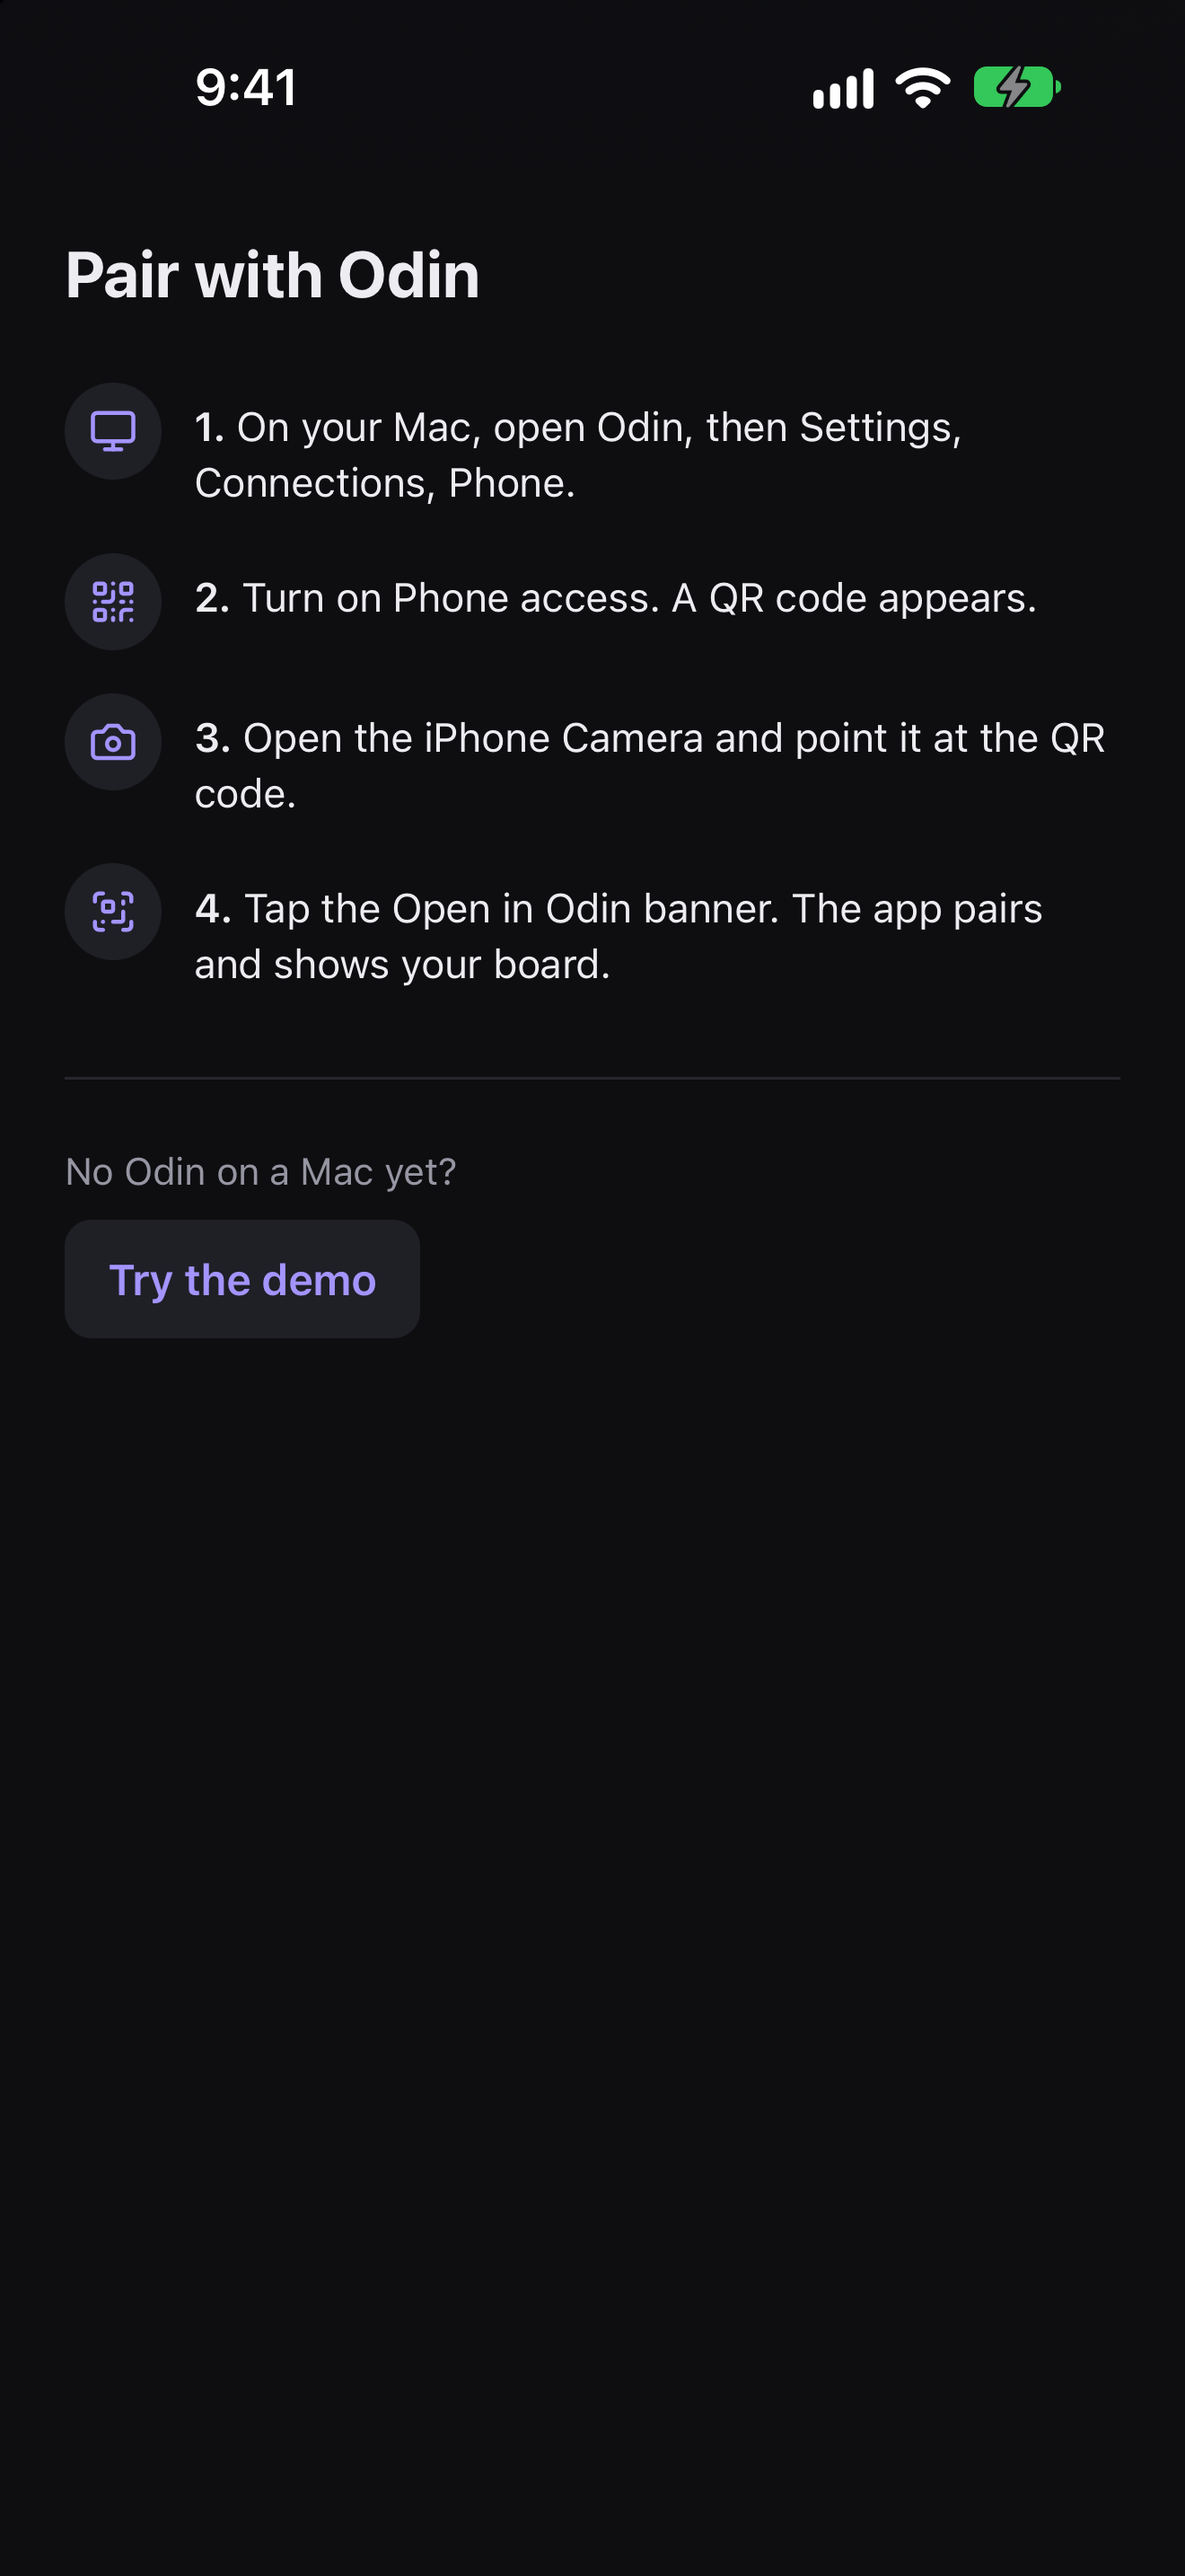
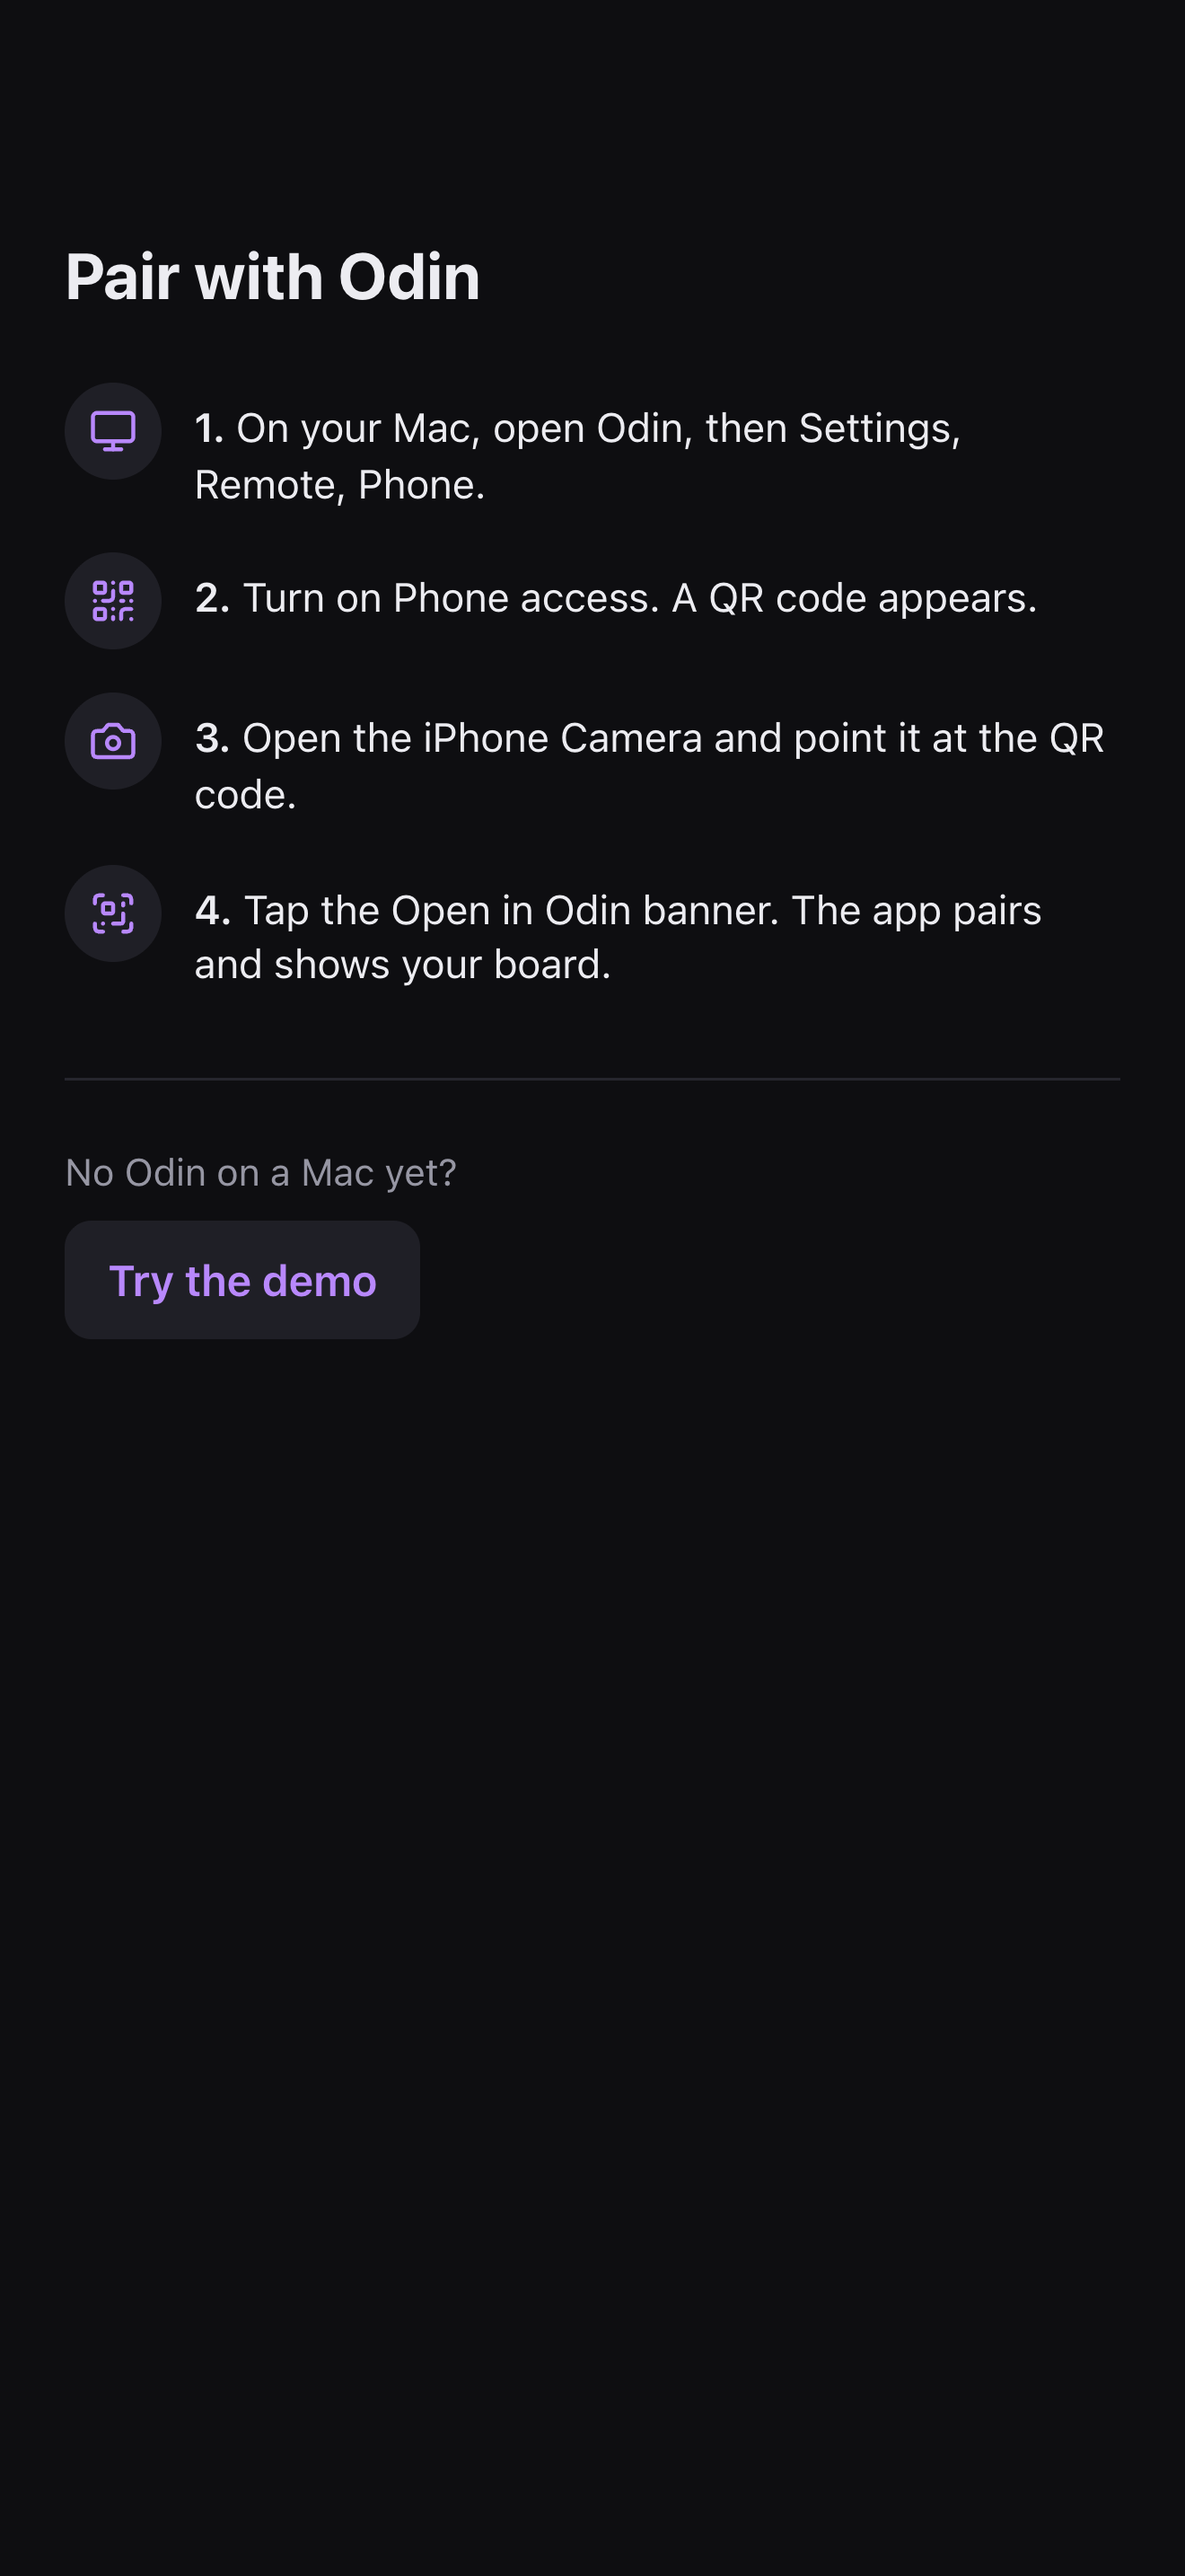
Phone: the demo answers the brief, replies and stars again; store screenshots from today's screens, no simulator
The slow queries (brief, links, search) and every mutation go as single tRPC
calls, not a batch. The demo answered only the batch format, so in Try the
demo - the path App Review takes - the brief was empty and Approve, replies,
stars and new tasks got no answer. demoAnswer now answers both; demo.test.ts
covers each.

bun run screenshots drops the simulator: headless Google Chrome renders the
phone screens at the 6.9-inch size against fake-odin (screenshots.ts), and the
five store screenshots are made again from today's screens: search, Local and
repo chips, the + menu, the Brief panel, the Remote pairing path.

diff --git a/apps/mobile/scripts/screenshots.ts b/apps/mobile/scripts/screenshots.ts
@@ -1,0 +1,126 @@
+// The App Store screenshots, from headless Chrome over the DevTools protocol:
+// the phone screens at the 6.9-inch iPhone size (440x956 points at 3x), against
+// fake-odin. screenshots.sh starts what it needs. Usage: bun screenshots.ts <out> <pair link>
+const [out, link] = process.argv.slice(2);
+const targets = await (await fetch("http://localhost:9333/json/list")).json();
+const page = targets.find((t: { type: string }) => t.type === "page");
+const ws = new WebSocket(page.webSocketDebuggerUrl);
+await new Promise((r) => ws.addEventListener("open", r));
+let id = 0;
+const pending = new Map<number, (v: unknown) => void>();
+ws.addEventListener("message", (e) => {
+	const msg = JSON.parse(String(e.data));
+	if (msg.id && pending.has(msg.id)) {
+		pending.get(msg.id)?.(msg.error ? { error: msg.error } : msg.result);
+		pending.delete(msg.id);
+	}
+});
+/** The parts of DevTools answers this script reads. */
+type Answer = {
+	data: string;
+	identifier: string;
+	result?: { value?: unknown };
+};
+const send = (method: string, params = {}) =>
+	new Promise<Answer>((r) => {
+		pending.set(++id, r as (v: unknown) => void);
+		ws.send(JSON.stringify({ id, method, params }));
+	});
+const sleep = (ms: number) => new Promise((r) => setTimeout(r, ms));
+const run = async (expression: string) =>
+	(
+		await send("Runtime.evaluate", {
+			expression,
+			awaitPromise: true,
+			returnByValue: true,
+		})
+	)?.result?.value;
+const shot = async (name: string, wait = 2500) => {
+	await sleep(wait);
+	const { data } = await send("Page.captureScreenshot", { format: "png" });
+	await Bun.write(`${out}/${name}.png`, Buffer.from(data, "base64"));
+	console.log("saved", name);
+};
+
+await send("Page.enable");
+await send("Runtime.enable");
+await send("Emulation.setDeviceMetricsOverride", {
+	width: 440,
+	height: 956,
+	deviceScaleFactor: 3,
+	mobile: true,
+});
+// Room for the status bar and the home indicator, as on the phone.
+await send("Emulation.setSafeAreaInsetsOverride", {
+	insets: {
+		top: 62,
+		topMax: 62,
+		bottom: 34,
+		bottomMax: 34,
+		left: 0,
+		leftMax: 0,
+		right: 0,
+		rightMax: 0,
+	},
+});
+await send("Emulation.setTouchEmulationEnabled", {
+	enabled: true,
+	maxTouchPoints: 5,
+});
+await send("Emulation.setUserAgentOverride", {
+	userAgent:
+		"Mozilla/5.0 (iPhone; CPU iPhone OS 26_0 like Mac OS X) AppleWebKit/605.1.15 (KHTML, like Gecko) Mobile/15E148",
+});
+
+// The Pair screen shows only inside the native app: a stub Capacitor for that one shot.
+const stub = await send("Page.addScriptToEvaluateOnNewDocument", {
+	source: `if (!localStorage.getItem("odin-phone-pairing")) window.Capacitor = { Plugins: { App: { addListener() { return { remove() {} }; }, getLaunchUrl: async () => ({}) } } };`,
+});
+await send("Page.navigate", { url: "http://localhost:5175/" });
+await shot("05-pair", 4000);
+await send("Page.removeScriptToEvaluateOnNewDocument", {
+	identifier: stub.identifier,
+});
+
+await run(
+	`localStorage.setItem("odin-phone-pairing", ${JSON.stringify(link)}); "ok"`,
+);
+await send("Page.navigate", { url: "http://localhost:5175/" });
+await shot("01-board", 8000);
+
+await run(`location.hash = "#/s/p1"; "ok"`);
+await shot("02-session", 5000);
+
+console.log(
+	"brief",
+	await run(`(async () => {
+	const open = document.querySelector('button[aria-label="Open the brief"]');
+	if (!open) return "no Brief button";
+	open.click();
+	return "opened";
+})()`),
+);
+await shot("03-brief", 4000);
+
+console.log(
+	"task",
+	await run(`(async () => {
+	location.hash = "";
+	await new Promise((r) => setTimeout(r, 1500));
+	document.querySelector('button[aria-label="New task"]').click();
+	await new Promise((r) => setTimeout(r, 1000));
+	const text = Object.getOwnPropertyDescriptor(HTMLTextAreaElement.prototype, "value");
+	const box = document.querySelector("textarea");
+	text.set.call(box, "Add a dark mode toggle to the export dialog, and keep the last choice per user");
+	box.dispatchEvent(new Event("input", { bubbles: true }));
+	box.blur();
+	const pick = Object.getOwnPropertyDescriptor(HTMLSelectElement.prototype, "value");
+	const repo = [...document.querySelectorAll("select")].find((s) => s.getAttribute("aria-label") !== "Profile");
+	pick.set.call(repo, [...repo.options].find((o) => o.value).value);
+	repo.dispatchEvent(new Event("change", { bubbles: true }));
+	return "typed";
+})()`),
+);
+await shot("04-new-task", 1500);
+ws.close();
+process.exit(0);

diff --git a/apps/desktop/src/renderer/mobile/demo.ts b/apps/desktop/src/renderer/mobile/demo.ts
@@ -207,9 +207,10 @@ export function answer(
 }
 
 /**
- * One request in tRPC's batch wire format, superjson-wrapped
- * (`{ "0": { json: input } }`), answered from the samples. `/upload` keeps
- * nothing and answers a made-up path.
+ * One tRPC request, superjson-wrapped, answered from the samples: a batch
+ * (`?batch=1`, `{ "0": { json: input } }`, answered with a list) or a single
+ * call (`{ json: input }`, answered with one result), which the slow queries
+ * and every mutation use. `/upload` keeps nothing and answers a made-up path.
  */
 export function demoAnswer(
 	path: string,
@@ -222,16 +223,18 @@ export function demoAnswer(
 			path: `/demo/attachments/${Date.now()}.${new URLSearchParams(query).get("ext")}`,
 		});
 	if (!path.startsWith("/trpc/")) return new Response("demo", { status: 404 });
-	const raw = new URLSearchParams(query).get("input") ?? body;
-	const batch = (raw ? JSON.parse(raw) : {}) as Record<string, unknown>;
+	const params = new URLSearchParams(query);
+	const raw = params.get("input") ?? body;
+	const parsed = (raw ? JSON.parse(raw) : {}) as Record<string, unknown>;
+	const one = (procedure: string, wrapped: unknown) => {
+		const input = (wrapped as { json?: Record<string, string> })?.json;
+		log?.(procedure, input ? JSON.stringify(input) : "");
+		return { result: { data: { json: answer(procedure, input) } } };
+	};
+	const procedures = path.slice("/trpc/".length);
+	if (params.get("batch") !== "1")
+		return Response.json(one(procedures, parsed));
 	return Response.json(
-		path
-			.slice("/trpc/".length)
-			.split(",")
-			.map((procedure, i) => {
-				const input = (batch[i] as { json?: Record<string, string> })?.json;
-				log?.(procedure, input ? JSON.stringify(input) : "");
-				return { result: { data: { json: answer(procedure, input) } } };
-			}),
+		procedures.split(",").map((procedure, i) => one(procedure, parsed[i])),
 	);
 }

diff --git a/apps/desktop/src/renderer/mobile/demo.test.ts b/apps/desktop/src/renderer/mobile/demo.test.ts
@@ -1,0 +1,31 @@
+import { expect, test } from "bun:test";
+import { demoAnswer } from "./demo";
+
+const json = async (response: Response) => response.json();
+
+test("a single call (the slow queries, every mutation) gets one result with its input", async () => {
+	const brief = await json(
+		demoAnswer(
+			"/trpc/brief",
+			`input=${encodeURIComponent('{"json":{"paneId":"p1"}}')}`,
+			"",
+		),
+	);
+	expect(brief.result.data.json.goal).toContain("HDR grouping");
+	const star = await json(
+		demoAnswer("/trpc/star", "", '{"json":{"paneId":"p1","starred":true}}'),
+	);
+	expect(star.result.data.json).toBe("ok");
+});
+
+test("a batch gets one result per procedure", async () => {
+	const answers = await json(
+		demoAnswer(
+			"/trpc/profiles,session",
+			`batch=1&input=${encodeURIComponent('{"0":{"json":null},"1":{"json":{"paneId":"p1"}}}')}`,
+			"",
+		),
+	);
+	expect(answers).toHaveLength(2);
+	expect(answers[1].result.data.json.title).toBe("Fix HDR grouping test");
+});

diff --git a/docs/app-store.md b/docs/app-store.md
@@ -208,18 +208,20 @@ them down for smaller iPhones. Files in
 
 1. `01-board.png` - the board: Needs you, Working, Final review, Idle, Backlog
 2. `02-session.png` - a session as a chat, with its TL;DR and action items
-3. `03-brief.png` - the brief: goal, progress, next step, PRs with CI, Jira, Slack
+3. `03-brief.png` - the brief panel: goal, progress, next step, PRs with CI, Jira, Slack
 4. `04-new-task.png` - a new task with repository and priority
 5. `05-pair.png` - pairing in four steps, and "Try the demo"
 
 The data is fake-odin's sample sessions (`apps/mobile/scripts/fake-odin.ts`).
-Regenerate with `bun run screenshots` in `apps/mobile` (about 3 minutes; it
-shuts down other booted simulators), and again after any change to the phone
-screens: a screenshot has to show the app as it is (Guideline 2.3.3).
+Regenerate with `bun run screenshots` in `apps/mobile` (about 30 seconds) after
+any change to the phone screens: a screenshot has to show the app as it is
+(Guideline 2.3.3). It needs no simulator: headless Google Chrome renders the
+phone screens at the 6.9-inch size with the phone's safe areas, so the top
+holds an empty status bar area.
 
 The files must have no alpha channel. App Store Connect refuses a PNG that
-has one, even when every pixel is opaque, and `xcrun simctl io screenshot`
-always writes one. `bun run screenshots` strips it at the end
+has one, even when every pixel is opaque. `bun run screenshots` strips it at
+the end
 (`scripts/strip-alpha.py`, standard library Python). After making a
 screenshot any other way, run `python3 scripts/strip-alpha.py
 store/screenshots/iphone-6.9/*.png` in `apps/mobile`; `sips -g hasAlpha
